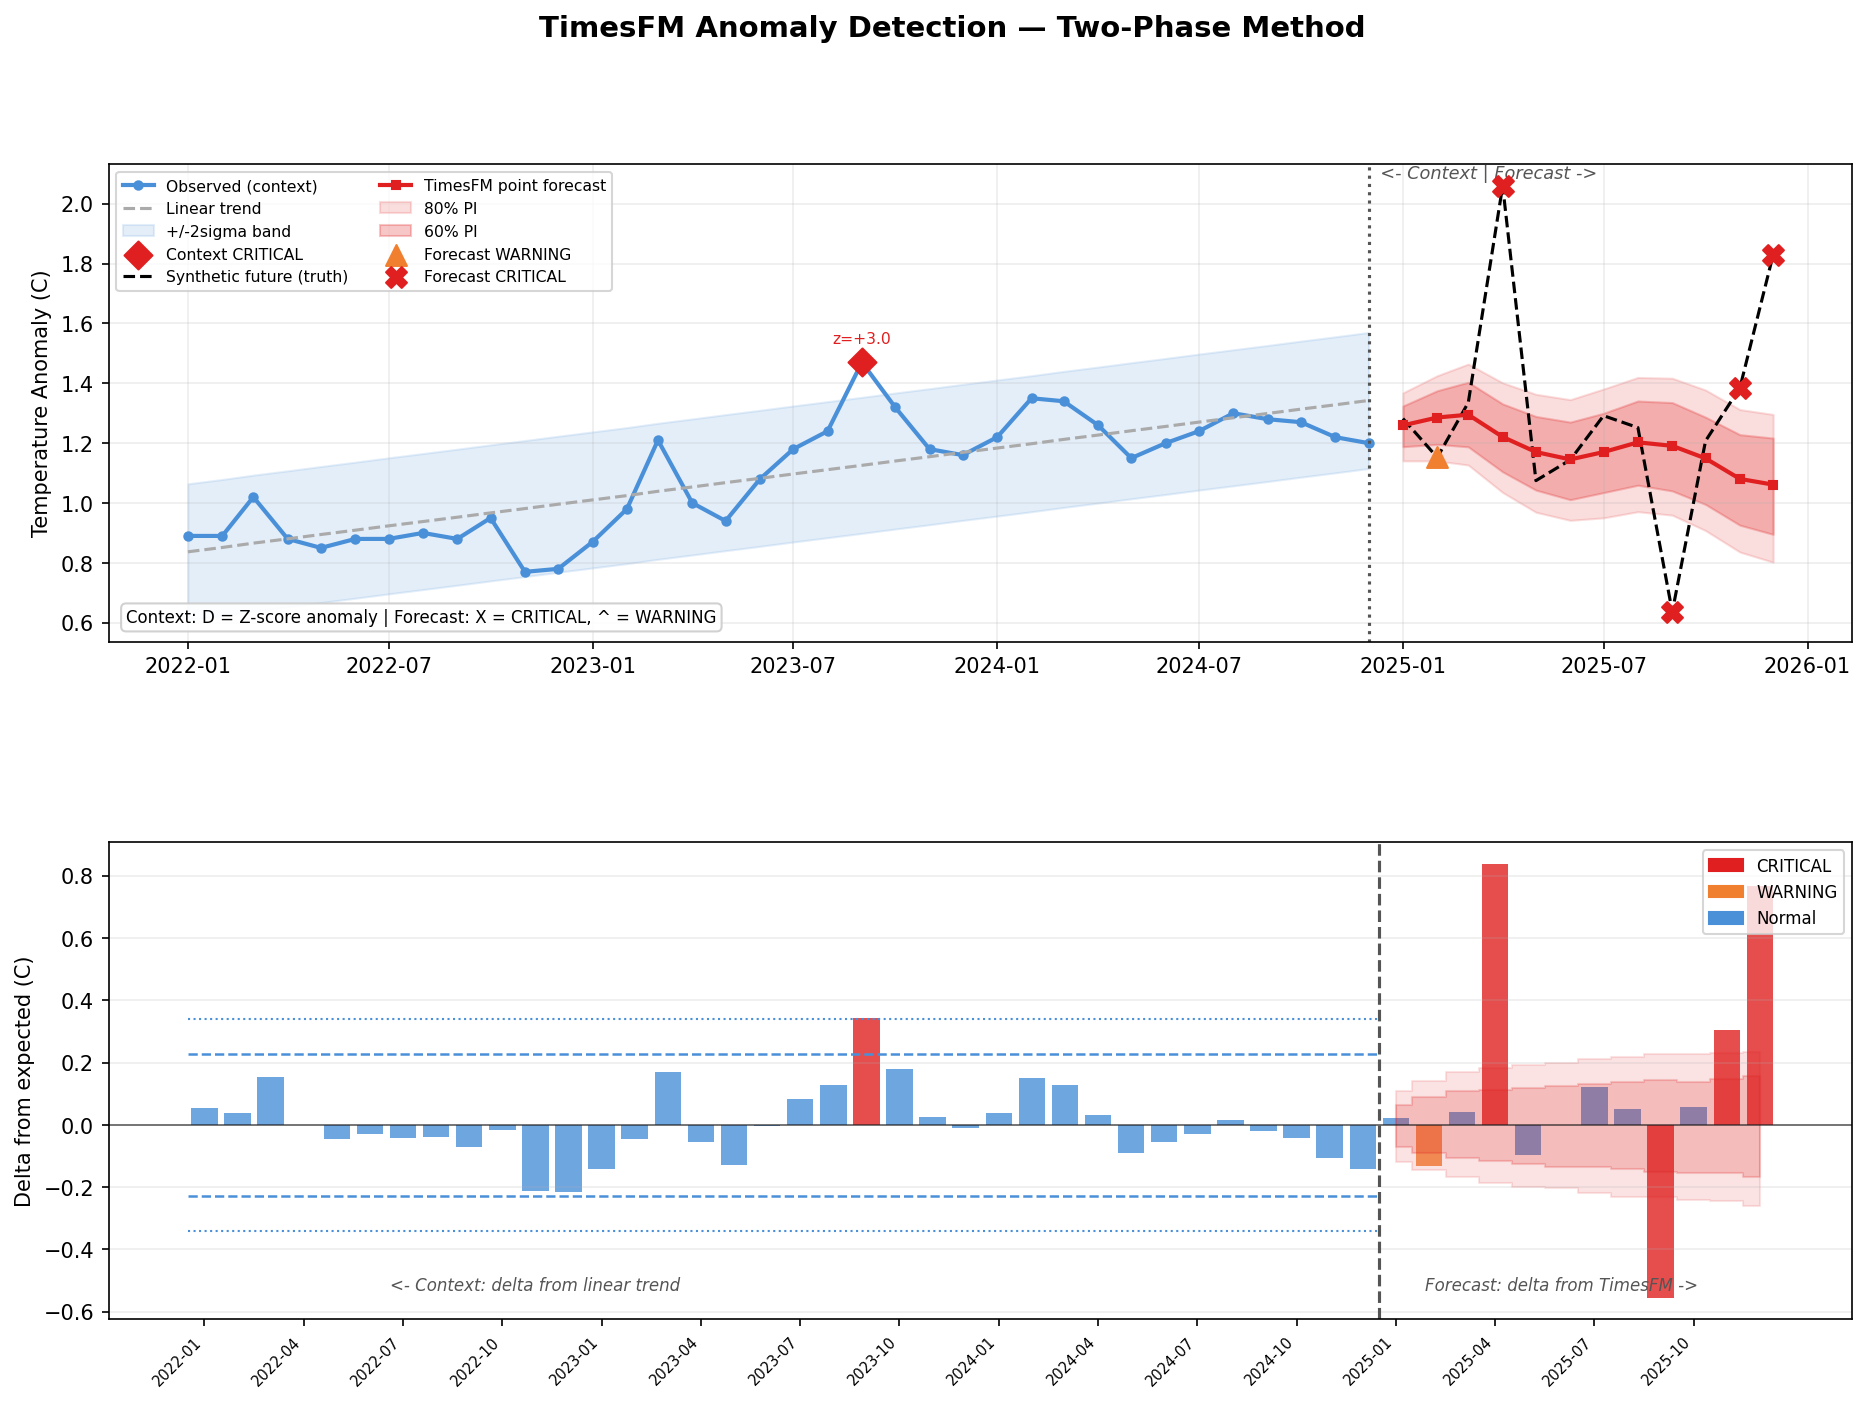
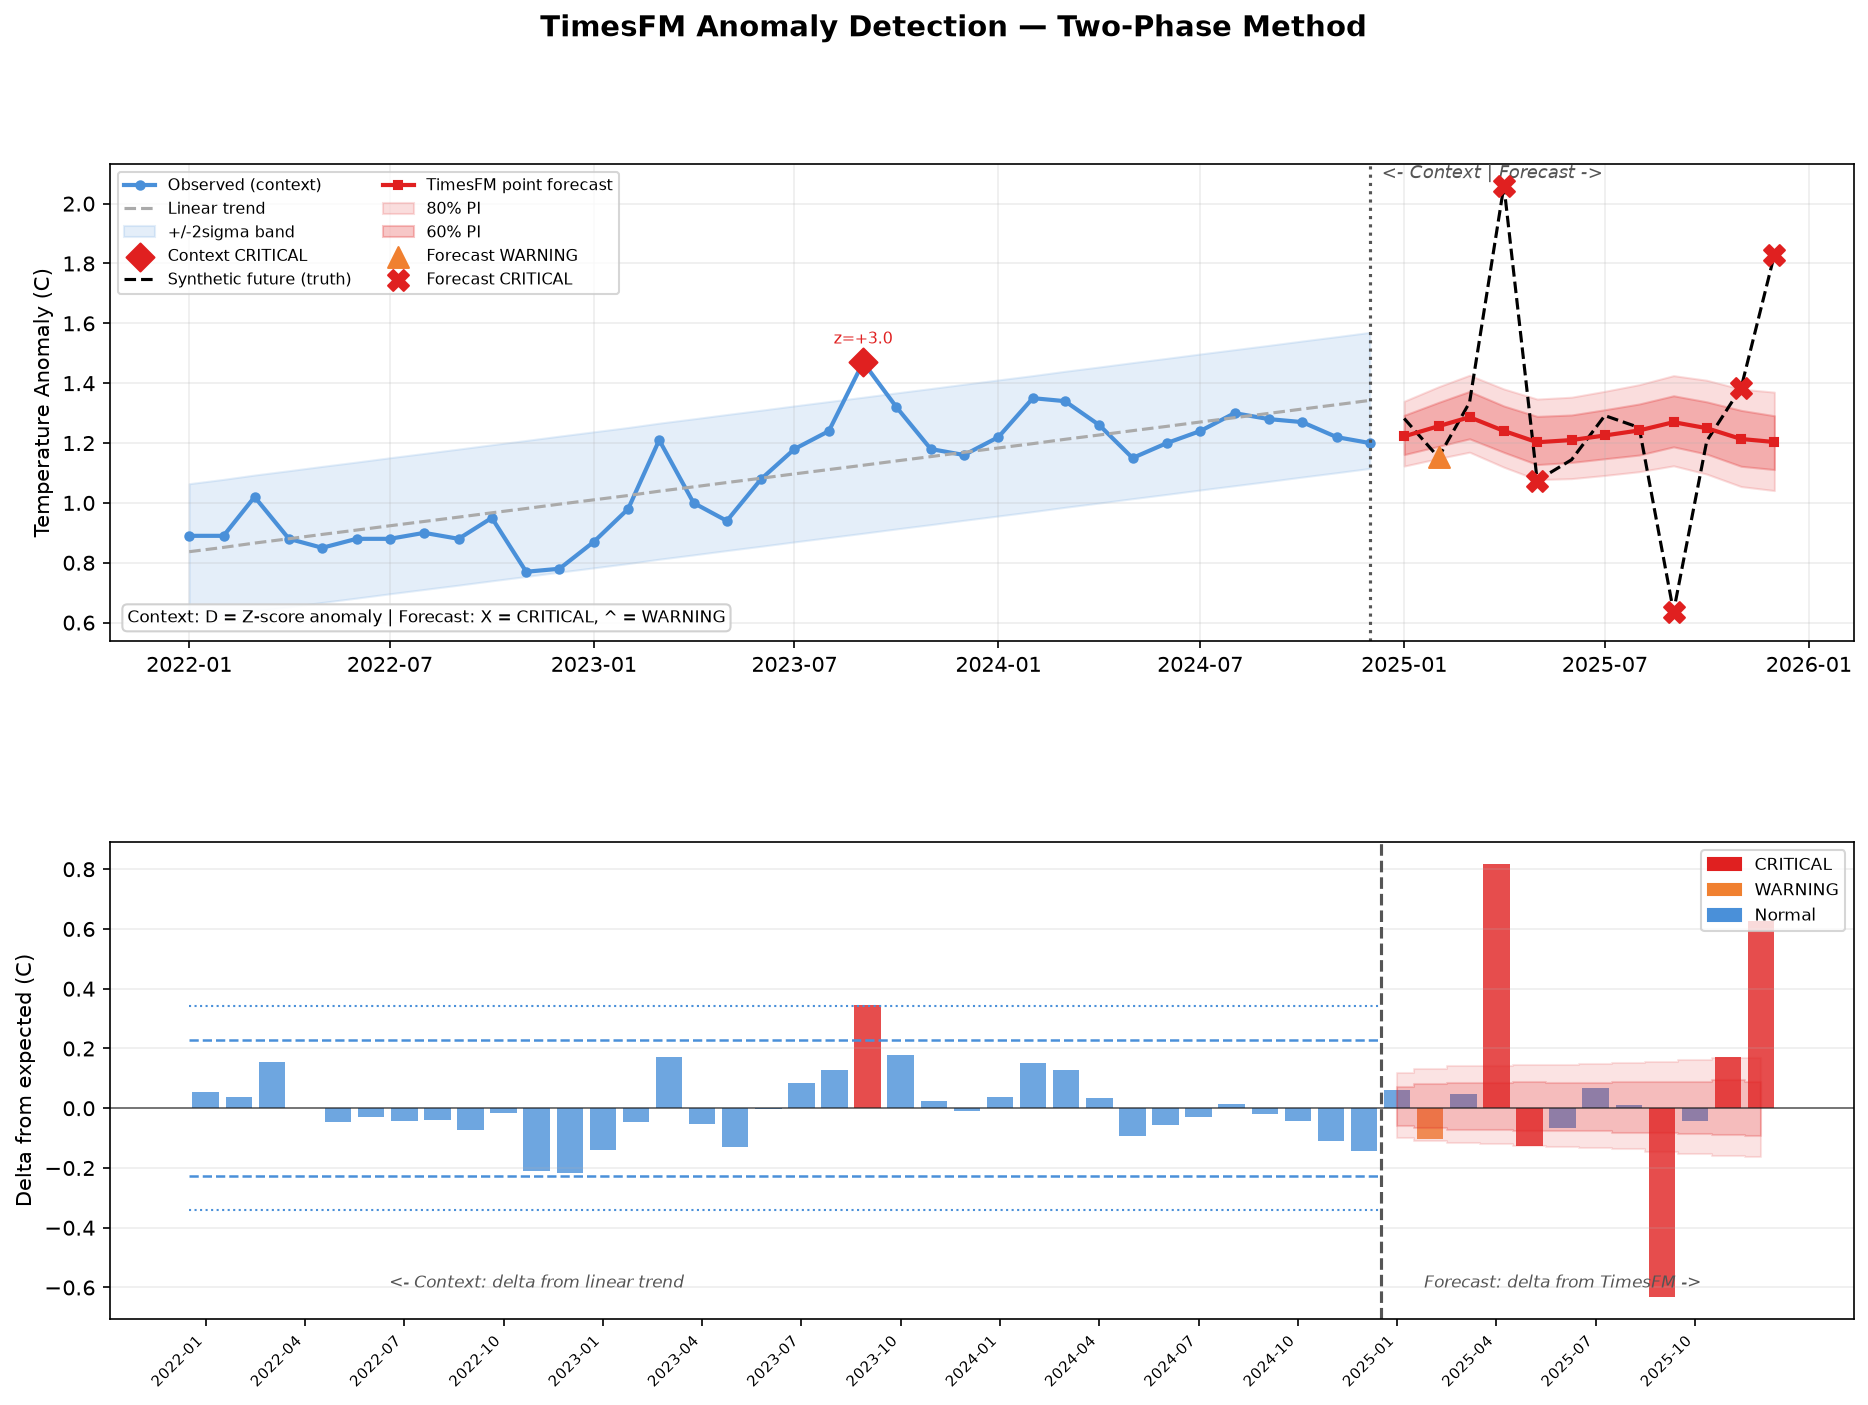
fix(examples): migrate anomaly-detection example to TimesFM 2.5
detect_anomalies.py still calls the v1 API that 2.5 removed, so it fails on
the first model load:

    AttributeError: module 'timesfm' has no attribute 'TimesFmHparams'

Port it to from_pretrained + ForecastConfig + forecast(horizon=...) and drop
the frequency indicator, using the same config as run_forecast.py in the
global-temperature example. The quantile column mapping here was already
correct (IDX_Q10..IDX_Q90 = 1/2/8/9), so only the loading path changes.

Regenerate the committed artifacts. The continuous quantile head in 2.5 gives
tighter intervals than the checkpoint the old artifacts came from: the 80% PI
width at month 12 goes 0.494 -> 0.329. One further month therefore falls
outside the band and the forecast CRITICAL count moves 4 -> 5. All three
injected anomalies are still caught, and the acceptance criterion documented
in SKILL.md still holds (Sep 2023 CRITICAL at z=+3.03).

Refs #423

diff --git a/timesfm-forecasting/examples/anomaly-detection/detect_anomalies.py b/timesfm-forecasting/examples/anomaly-detection/detect_anomalies.py
@@ -419,16 +419,22 @@ def main() -> None:
         print(f"      {r['date']}  {r['value']:+.3f} C  z={r['z_score']:+.2f}")
 
     # --- Load TimesFM --------------------------------------------------------
-    print("\n  Loading TimesFM 1.0 ...")
+    print("\n  Loading TimesFM 2.5 ...")
     import timesfm
 
-    hparams = timesfm.TimesFmHparams(horizon_len=HORIZON)
-    checkpoint = timesfm.TimesFmCheckpoint(
-        huggingface_repo_id="google/timesfm-1.0-200m-pytorch"
+    model = timesfm.TimesFM_2p5_200M_torch.from_pretrained(
+        "google/timesfm-2.5-200m-pytorch",
+        torch_compile=False,
     )
-    model = timesfm.TimesFm(hparams=hparams, checkpoint=checkpoint)
+    model.compile(timesfm.ForecastConfig(
+        max_context=512,
+        max_horizon=HORIZON,
+        normalize_inputs=True,
+        use_continuous_quantile_head=True,
+        fix_quantile_crossing=True,
+    ))
 
-    point_out, quant_out = model.forecast([context_values], freq=[0])
+    point_out, quant_out = model.forecast(horizon=HORIZON, inputs=[context_values])
     point_fc = point_out[0]  # shape (HORIZON,)
     quant_fc = quant_out[0].T  # shape (10, HORIZON)
 
